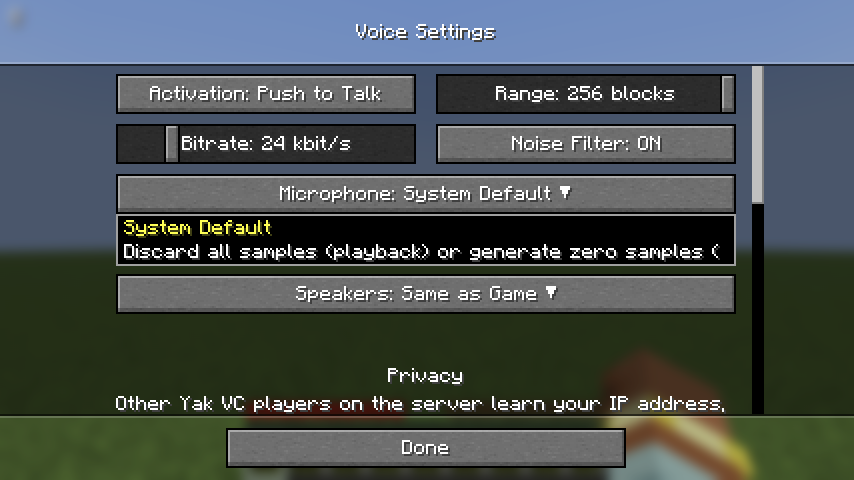
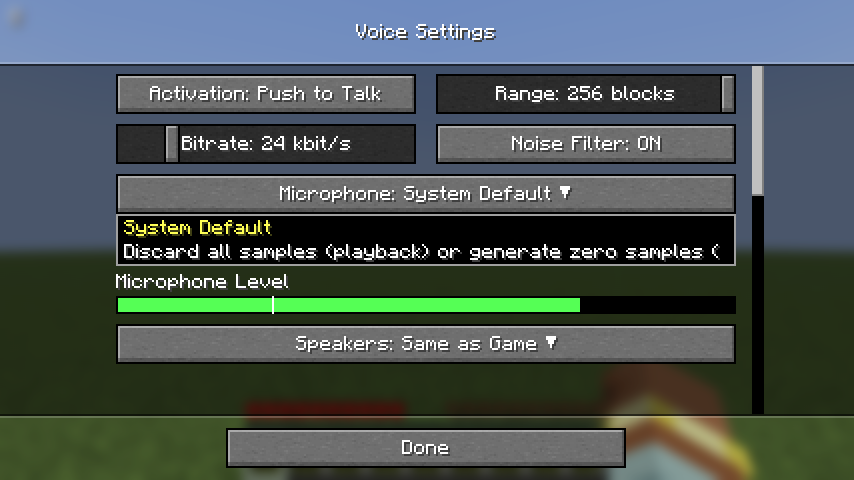
Add a Mic Volume slider to the settings
The engine's input_gain had no control in the game. The slider sits
under the microphone picker, 0 to 400%, and applies live like the other
settings. Gain comes before the level meter and voice activation, so
the meter shows its effect.

Changed region(s): [[0.1218, 0.5625, 0.8829, 0.875], [0.8829, 0.4062, 0.9133, 0.4375]]

diff --git a/mod/src/main/java/io/github/desocketed/yakvc/ui/VoiceSettingsScreen.java b/mod/src/main/java/io/github/desocketed/yakvc/ui/VoiceSettingsScreen.java
@@ -42,6 +42,11 @@ public final class VoiceSettingsScreen extends OptionsSubScreen {
 	private static final String VOICE = "voice";
 	/** Stands for an unset device: the system default microphone, or speakers that follow the game. */
 	private static final String DEFAULT_DEVICE = "";
+	/**
+	 * The slider's top. The engine allows up to 1000%, but past 400% a quiet microphone mostly gets louder hiss; a
+	 * hand-edited higher gain shows as 400% and is left alone until the slider moves.
+	 */
+	private static final int MAX_INPUT_GAIN_PERCENT = 400;
 
 	private final GameStateFeeder feeder;
 	private final ClientConfig initial;
@@ -49,6 +54,8 @@ public final class VoiceSettingsScreen extends OptionsSubScreen {
 	private final OptionInstance<String> activation;
 	private final OptionInstance<Integer> range;
 	private final OptionInstance<Integer> bitrateKbps;
+	/** The microphone's gain, in percent. */
+	private final OptionInstance<Integer> inputGainPercent;
 	private final OptionInstance<Boolean> noiseSuppression;
 	private final Dropdown inputDevice;
 	private final Dropdown outputDevice;
@@ -100,6 +107,10 @@ public final class VoiceSettingsScreen extends OptionsSubScreen {
 		noiseSuppression = OptionInstance.createBoolean("yakvc.settings.noise_suppression",
 				OptionInstance.cachedConstantTooltip(Component.translatable("yakvc.settings.noise_suppression.tooltip")),
 				initial.noiseSuppression(), value -> throttle.changed());
+		inputGainPercent = new OptionInstance<>("yakvc.settings.input_gain",
+				OptionInstance.cachedConstantTooltip(Component.translatable("yakvc.settings.input_gain.tooltip")),
+				(caption, value) -> Options.genericValueLabel(caption, Component.translatable("yakvc.tuning.percent", value)),
+				new OptionInstance.IntRange(0, MAX_INPUT_GAIN_PERCENT), inputGainPercent(initial), value -> throttle.changed());
 		inputDevice = device("yakvc.settings.input_device", true, initial.inputDevice(),
 				"yakvc.settings.input_device.default");
 		outputDevice = device("yakvc.settings.output_device", false, initial.outputDevice(),
@@ -245,6 +256,7 @@ public final class VoiceSettingsScreen extends OptionsSubScreen {
 		list.addSmall(activation, range);
 		list.addSmall(bitrateKbps, noiseSuppression);
 		list.addBig(inputDevice);
+		list.addBig(inputGainPercent);
 		list.addBig(new MicLevelMeter(feeder::micLevelDb, initial.vadThresholdDb()));
 		list.addBig(outputDevice);
 		list.addHeader(Component.translatable("yakvc.settings.privacy"));
@@ -368,6 +380,9 @@ public final class VoiceSettingsScreen extends OptionsSubScreen {
 		if (bitrateKbps.get() != current.bitrate() / 1000) {
 			changed = changed.with("audio", "bitrate", String.valueOf(bitrateKbps.get() * 1000));
 		}
+		if (inputGainPercent.get() != inputGainPercent(current)) {
+			changed = changed.with("audio", "input_gain", String.valueOf(inputGainPercent.get() / 100.0));
+		}
 		if (noiseSuppression.get() != current.noiseSuppression()) {
 			changed = changed.with("audio", "noise_suppression", String.valueOf(noiseSuppression.get()));
 		}
@@ -397,6 +412,11 @@ public final class VoiceSettingsScreen extends OptionsSubScreen {
 			VoiceToasts.show(Component.translatable("yakvc.toast.settings_not_saved"));
 		}
 		return true;
+	}
+
+	/** The config's microphone gain as the slider shows it, so an untouched slider never rewrites it. */
+	private static int inputGainPercent(ClientConfig config) {
+		return (int) Math.clamp(Math.round(config.inputGain() * 100), 0, MAX_INPUT_GAIN_PERCENT);
 	}
 
 	private static @Nullable String deviceValue(String id) {

diff --git a/mod/src/test/java/io/github/desocketed/yakvc/config/ClientConfigTest.java b/mod/src/test/java/io/github/desocketed/yakvc/config/ClientConfigTest.java
@@ -56,6 +56,7 @@ class ClientConfigTest {
 		assertEquals("Mic \"USB\" # 2", config.inputDevice());
 		assertEquals("C:\\Speakers", config.outputDevice());
 		assertEquals(256, config.voiceRange(), "the engine's default when unset");
+		assertEquals(1, config.inputGain(), "the engine's default when unset");
 	}
 
 	@Test
@@ -64,10 +65,12 @@ class ClientConfigTest {
 				.with("", "voice_range", "32.0")
 				.with("", "relay_only", "true")
 				.with("audio", "activation", ClientConfig.quote("voice"))
+				.with("audio", "input_gain", "2.5")
 				.with("audio", "input_device", ClientConfig.quote("Mic \"2\""));
 		assertEquals(32, config.voiceRange());
 		assertTrue(config.relayOnly());
 		assertTrue(config.voiceActivation());
+		assertEquals(2.5, config.inputGain());
 		assertEquals("Mic \"2\"", config.inputDevice());
 		assertTrue(config.toml().contains("# Voice range in blocks"));
 		assertTrue(config.toml().contains("# output_device = \"...\""), "untouched commented keys stay");
@@ -102,10 +105,13 @@ class ClientConfigTest {
 					.with("", "voice_range", "100.0")
 					.with("", "mute_blocked_players", "false")
 					.with("audio", "bitrate", "64000")
+					.with("audio", "input_gain", "4.0")
 					.with("audio", "output_device", ClientConfig.quote("Speakers"));
 			bridge.updateConfig(engine, edited.toml());
 			assertThrows(YakVcException.class,
 					() -> bridge.updateConfig(engine, edited.with("", "voice_range", "1000.0").toml()));
+			assertThrows(YakVcException.class,
+					() -> bridge.updateConfig(engine, edited.with("audio", "input_gain", "20.0").toml()));
 			// Java keeps per-player volume; the engine only checks it is a usable gain.
 			bridge.setPeerVolume(engine, UUID.randomUUID(), 2f, true);
 		} finally {

diff --git a/mod/src/main/java/io/github/desocketed/yakvc/config/ClientConfig.java b/mod/src/main/java/io/github/desocketed/yakvc/config/ClientConfig.java
@@ -70,6 +70,11 @@ public record ClientConfig(String toml) {
 		return number(value("acoustics", key), fallback);
 	}
 
+	/** Linear gain on the microphone, 1 being unchanged; the engine's default when unset. */
+	public double inputGain() {
+		return number(value("audio", "input_gain"), 1);
+	}
+
 	public boolean noiseSuppression() {
 		return bool(value("audio", "noise_suppression"), true);
 	}
@@ -276,6 +281,8 @@ public record ClientConfig(String toml) {
 			activation = "push_to_talk"
 			# Opus bitrate in bits per second (16000 to 64000).
 			bitrate = 24000
+			# Microphone volume, 1.0 being unchanged (0 to 10).
+			input_gain = 1.0
 			noise_suppression = true
 			# Device ids, as the voice settings or `yakvc audio devices` list them.
 			# Unset means the system default microphone, and speakers matching the game's sound device.

diff --git a/docs/DESIGN.md b/docs/DESIGN.md
@@ -434,8 +434,8 @@ Names below use Mojang's official mappings, which Fabric uses from 26.1 on (Mine
 | `GameStateFeeder` | On `END_CLIENT_TICK`: the identity (see `VoiceSession`); listener pose from the camera; tracked players from `level.players()`, minus spectators; tab-list diff from `getOnlinePlayers()`; local spectator state as an input flag; players blocked in Social Interactions (`PlayerSocialManager.isBlocked(UUID)`, checked once a second) are muted and also left out of the world snapshot, so no voice flows either way (`mute_blocked_players`); per-player volume and mute changes; the Voice volume as `getFinalSoundSourceVolume(VOICE)`, i.e. Voice × Master; the game's sound device; another mod's voice sink from Fabric Loader's object share (`yakvc:voice_sink`), when its address changes; push to native; then drain events and answer joins. Each step runs on its own, so one failing call can't skip the rest; a value the engine rejects is not resent until it changes. An engine panic disables voice and destroys the engine |
 | `SessionJoiner` | Handles `JoinRequest` events on a virtual thread via authlib's `SessionService.joinServer` (see authentication step 5). It tracks the game's login window itself, from `ClientLoginConnectionEvents.INIT` until `ClientConfigurationConnectionEvents.INIT` or login `DISCONNECT` (a `VoiceSession` only exists after login), and refuses inside it; the engine's auth backoff retries from 10 s. A login that starts while a voice join is in flight waits for it, up to 5 s, except for a local server (singleplayer or LAN host, `Minecraft.isLocalServer()`), where the game never calls `joinServer` over its memory connection: `ClientLoginConnectionEvents.INIT` fires before the game sends its hello, so the game's own `joinServer` lands last. Any `AuthenticationException` (unreachable, invalid credentials, banned) means `ok = false`. The access token stays inside authlib and is never logged. The result goes back through `GameStateFeeder`, which calls `completeJoin` on the client thread |
 | `input` | Keybinds via `KeyMappingHelper`: push-to-talk (default `V`, unused by vanilla; 26.3 uses SDL scancodes, `InputConstants.KEY_V`); mute, deafen and open voice menu are unbound by default to avoid clashing with minimap and utility mods; the pause menu gets a microphone button next to "Back to Game" (`ScreenEvents.AFTER_INIT`, placed from that button's position) that opens the voice menu. Settings are reached from a "Voice Chat…" row added to vanilla's Music & Sounds options (Fabric `ScreenEvents.AFTER_INIT` appends it to the screen's `OptionsList`, no mixin), from the voice menu, or from Mod Menu's config button when Mod Menu is installed (an optional compile-only dependency; Mod Menu is on the dev and gametest runtime classpath only, and the gametest clicks through its real config button) |
-| `ui` | `VoiceMenuScreen`: voice status, one row per online player (face, connection state, talking icon, 0–200 % volume, mute), and mute mic, deafen, groups and settings buttons; the first time it opens, a setup card at the top offers who may invite you to a group and the activation mode, and dismissing it sets `setup_done` in the mod config (a modpack can ship that set); `GroupsScreen`: public groups and our own as boxes of member faces with the optional label, join, leave, public or private, and the label; `GroupChat` puts invites in chat and other members' changes in toasts; `VoiceKeys` adds Group (B: invite or accept the player looked at); verified players get a check-mark badge after their name (icon-font `U+E004`), also shown beside the talking indicator. `VoiceSettingsScreen` applies each change at once, like the game's own options (slider drags coalesced to one `yakvc_update_config` every 2 ticks, about 100 ms; a pending one applies when the screen closes), and saves client.toml after each change the engine accepts; a rejected change shows the toast and reopens the screen from the config in effect, and the setup card's choices apply the same way. It has an Account section with your own state (verified, unverified or not connected) and the "Only Verified Players" toggle (`verified_only`); activation (push to talk or voice), range, bitrate, the noise filter (`noise_suppression`), input and output devices from `yakvc_list_devices`, listed once per open on a worker thread (`GameStateFeeder.listDevices`) with the pickers disabled and showing "Loading…" until the list lands on the client thread (that is the one engine call made off the client thread: it touches no engine state, the FFI last error is per thread, and `GameStateFeeder.close` holds a lock against it so destroy stays the last call), and a privacy section with the IP note, Group Invites (`invites`), relay-only (applies after a restart, because the engine builds its endpoint once; until then its button reads "On/Off after restart"), `respect_chat_restrictions` and `mute_blocked_players`, then a Developer section (always shown for now, one method so it can be hidden) with the debug overlay toggle, Sound Tuning and Test Sound. `TalkingIndicator` draws a speaker above talking players' name tags through `LevelRenderEvents.COLLECT_SUBMITS` and vanilla's `submitNameTag` (no mixin). The HUD shows mic and deafen icons, and the connection icon only when not registered, with text only when something is wrong; the mic turns grey with "No microphone" when no `MicLevel` has arrived for a second (#63). Icons are a small bitmap font (`assets/yakvc/font/icons.json`). `DebugOverlay` (key "Toggle Debug Overlay", unbound by default, or the toggle in the settings' Developer section, not saved) draws an F3-style panel: rendezvous and ticket (time left in whole hours, then minutes in the last hour, #118), account, endpoint and our voice protocol version, devices, level, sending, effective bitrate, overruns and underruns, and per peer the path, its voice protocol version when it differs from ours (such a peer also shows "Different version" in the voice menu, with a tooltip and a one-time toast per server session saying who needs to update, naming the release when the update check found one), RTT, loss, late packets and jitter-buffer delay, from `yakvc_stats` polled 4 times a second while it is shown. `VoiceToasts` shows failures: unsupported platform, native load or ABI mismatch, engine start failure, engine panic, and rejected settings. `EngineErrorToasts` shows the engine's `Error` events (a device that can't open or stopped working, a failed sign-in) as toasts of their own, queued one after another rather than replacing each other (#116); each message shows at most once every 5 minutes (#63). Group notices have a toast slot of their own (5 s, a newer one replaces the older). The other toasts share one slot The settings offer only "everyone" and "nobody" for group invites; `invites = "friends"` and `friends_only` are set in client.toml alone. The menu status and the account line follow the live state while open; players.json is rewritten only when a volume or mute changed. |
-| `config` | TOML in `config/yakvc/client.toml`, passed to native as a string. Includes `respect_chat_restrictions` and `mute_blocked_players`, both default `true` and both can be turned off, and `verified_only` (default `false`), and `invites` (default `"everyone"`). The mod-only `setup_done` records that the voice menu's first-run card was dismissed; a modpack can ship it set. A commented default is written on first run; Java edits the keys its settings screen owns line by line, without a TOML library, so comments and other keys survive; the edited text goes through `yakvc_update_config` and is saved only if the engine accepts it. The settings screen picks the microphone and speakers from dropdown lists and shows a live microphone level meter, fed by the `MicLevel` event the engine sends whenever the microphone delivers audio, with `vad_threshold_db` marked on it. Per-player volume and mute are kept by UUID in `config/yakvc/players.json`. Both files are written atomically (a temporary file, then an atomic move), so a crash mid-save leaves the old contents (#68); entries are checked one by one on load, bad ones are dropped with a warning and volumes are clamped to 0–2 (the menu's range). A `[dev]` section (needs `dev_mode`) gives test audio instead of devices: `tone_hz` uses a tone source, `wav` a looping WAV file (`cargo xtask session --talk <name> --talk-file <wav>` sets it) and `null_output` a null sink, for headless runs. Separately, the engine lists built-in test inputs after the real microphones (`TEST_INPUTS`: clicks, noise bursts, a sweep, beeps and a tone, generated at a speech-like −18 dBFS peak, each suited to hearing an effect), opened by their `yakvc:test-` id as any microphone is and needing no `dev_mode`; the settings offer them under Test Sound in their Developer section, and the Microphone list leaves them out unless one is in use, and `--talk <name>` alone picks the beeps |
+| `ui` | `VoiceMenuScreen`: voice status, one row per online player (face, connection state, talking icon, 0–200 % volume, mute), and mute mic, deafen, groups and settings buttons; the first time it opens, a setup card at the top offers who may invite you to a group and the activation mode, and dismissing it sets `setup_done` in the mod config (a modpack can ship that set); `GroupsScreen`: public groups and our own as boxes of member faces with the optional label, join, leave, public or private, and the label; `GroupChat` puts invites in chat and other members' changes in toasts; `VoiceKeys` adds Group (B: invite or accept the player looked at); verified players get a check-mark badge after their name (icon-font `U+E004`), also shown beside the talking indicator. `VoiceSettingsScreen` applies each change at once, like the game's own options (slider drags coalesced to one `yakvc_update_config` every 2 ticks, about 100 ms; a pending one applies when the screen closes), and saves client.toml after each change the engine accepts; a rejected change shows the toast and reopens the screen from the config in effect, and the setup card's choices apply the same way. It has an Account section with your own state (verified, unverified or not connected) and the "Only Verified Players" toggle (`verified_only`); activation (push to talk or voice), range, bitrate, the noise filter (`noise_suppression`), Mic Volume (`input_gain`, a 0–400 % slider though the engine takes up to 10), input and output devices from `yakvc_list_devices`, listed once per open on a worker thread (`GameStateFeeder.listDevices`) with the pickers disabled and showing "Loading…" until the list lands on the client thread (that is the one engine call made off the client thread: it touches no engine state, the FFI last error is per thread, and `GameStateFeeder.close` holds a lock against it so destroy stays the last call), and a privacy section with the IP note, Group Invites (`invites`), relay-only (applies after a restart, because the engine builds its endpoint once; until then its button reads "On/Off after restart"), `respect_chat_restrictions` and `mute_blocked_players`, then a Developer section (always shown for now, one method so it can be hidden) with the debug overlay toggle, Sound Tuning and Test Sound. `TalkingIndicator` draws a speaker above talking players' name tags through `LevelRenderEvents.COLLECT_SUBMITS` and vanilla's `submitNameTag` (no mixin). The HUD shows mic and deafen icons, and the connection icon only when not registered, with text only when something is wrong; the mic turns grey with "No microphone" when no `MicLevel` has arrived for a second (#63). Icons are a small bitmap font (`assets/yakvc/font/icons.json`). `DebugOverlay` (key "Toggle Debug Overlay", unbound by default, or the toggle in the settings' Developer section, not saved) draws an F3-style panel: rendezvous and ticket (time left in whole hours, then minutes in the last hour, #118), account, endpoint and our voice protocol version, devices, level, sending, effective bitrate, overruns and underruns, and per peer the path, its voice protocol version when it differs from ours (such a peer also shows "Different version" in the voice menu, with a tooltip and a one-time toast per server session saying who needs to update, naming the release when the update check found one), RTT, loss, late packets and jitter-buffer delay, from `yakvc_stats` polled 4 times a second while it is shown. `VoiceToasts` shows failures: unsupported platform, native load or ABI mismatch, engine start failure, engine panic, and rejected settings. `EngineErrorToasts` shows the engine's `Error` events (a device that can't open or stopped working, a failed sign-in) as toasts of their own, queued one after another rather than replacing each other (#116); each message shows at most once every 5 minutes (#63). Group notices have a toast slot of their own (5 s, a newer one replaces the older). The other toasts share one slot The settings offer only "everyone" and "nobody" for group invites; `invites = "friends"` and `friends_only` are set in client.toml alone. The menu status and the account line follow the live state while open; players.json is rewritten only when a volume or mute changed. |
+| `config` | TOML in `config/yakvc/client.toml`, passed to native as a string. Includes `respect_chat_restrictions` and `mute_blocked_players`, both default `true` and both can be turned off, and `verified_only` (default `false`), and `invites` (default `"everyone"`). The mod-only `setup_done` records that the voice menu's first-run card was dismissed; a modpack can ship it set. A commented default is written on first run; Java edits the keys its settings screen owns line by line, without a TOML library, so comments and other keys survive; the edited text goes through `yakvc_update_config` and is saved only if the engine accepts it. The settings screen picks the microphone and speakers from dropdown lists and shows a live microphone level meter, fed by the `MicLevel` event the engine sends whenever the microphone delivers audio, with `vad_threshold_db` marked on it; the level is measured after `input_gain`, as voice activation is, so the meter shows what Mic Volume does. Per-player volume and mute are kept by UUID in `config/yakvc/players.json`. Both files are written atomically (a temporary file, then an atomic move), so a crash mid-save leaves the old contents (#68); entries are checked one by one on load, bad ones are dropped with a warning and volumes are clamped to 0–2 (the menu's range). A `[dev]` section (needs `dev_mode`) gives test audio instead of devices: `tone_hz` uses a tone source, `wav` a looping WAV file (`cargo xtask session --talk <name> --talk-file <wav>` sets it) and `null_output` a null sink, for headless runs. Separately, the engine lists built-in test inputs after the real microphones (`TEST_INPUTS`: clicks, noise bursts, a sweep, beeps and a tone, generated at a speech-like −18 dBFS peak, each suited to hearing an effect), opened by their `yakvc:test-` id as any microphone is and needing no `dev_mode`; the settings offer them under Test Sound in their Developer section, and the Microphone list leaves them out unless one is in use, and `--talk <name>` alone picks the beeps |
 
 Fabric API events are preferred over mixins; the target is zero mixins in v1 (M4 has none).
 

diff --git a/docs/USER_GUIDE.md b/docs/USER_GUIDE.md
@@ -143,6 +143,7 @@ Open the settings from **Options → Music & Sounds → Voice Chat…**, at the 
 - **Bitrate**: the sound quality of your voice, from 16 to 64 kbit/s. Higher sounds better and uses more data; 24 kbit/s is plenty for speech.
 - **Noise Filter**: filters fans, hum and room noise out of your microphone. On by default; turn it off if it makes your voice sound choppy or robotic, or if your microphone is already clean.
 - **Microphone**: which microphone to use. Click it for a list of your microphones and pick one; scroll the list if it is long. *System Default* follows your system's setting.
+- **Mic Volume**: how loud your microphone is, from 0 to 400% (100% by default). The level meter below shows the result, so set it by eye: talk normally and aim for the bar to cross the white mark comfortably. It also changes when *Voice* activation starts sending.
 - **Microphone Level**: shows live how loud your microphone hears you, so you can check it works without joining a world or holding the talk key. The bar turns green above the white mark, the level at which *Voice* activation starts sending (`vad_threshold_db` in the [config file](#the-config-file)). It shows the microphone in use, so after picking another one, leave and reopen the settings to see it.
 - **Speakers**: where voices play. Click it to pick from a list, like the microphone. *Same as Game* uses the game's sound device (Options → Music & Sounds → Device).
 
@@ -265,7 +266,7 @@ A few more are only in the file:
 | --- | --- | --- |
 | `friends_only` | unset | A list of player UUIDs, like `["11111111-2222-3333-4444-555555555555"]`. When set, you hear and talk to only these players. |
 | `setup_done` | `false` | Set once the voice menu's first-run card is dismissed, so it shows only once. |
-| `[audio]` `input_gain` | `1.0` | Microphone volume, from 0 to 10. |
+| `[audio]` `input_gain` | `1.0` | Mic Volume, from 0 to 10 (the settings go up to 4.0, 400%). |
 | `[audio]` `vad_threshold_db` | `-45.0` | How loud you must be for *Voice* activation to send, from -100 (everything) to 0 (very loud only). |
 | `[rendezvous]` | the Yak VC server | Another voice server, for those who [run their own](../deploy/README.md). |
 
